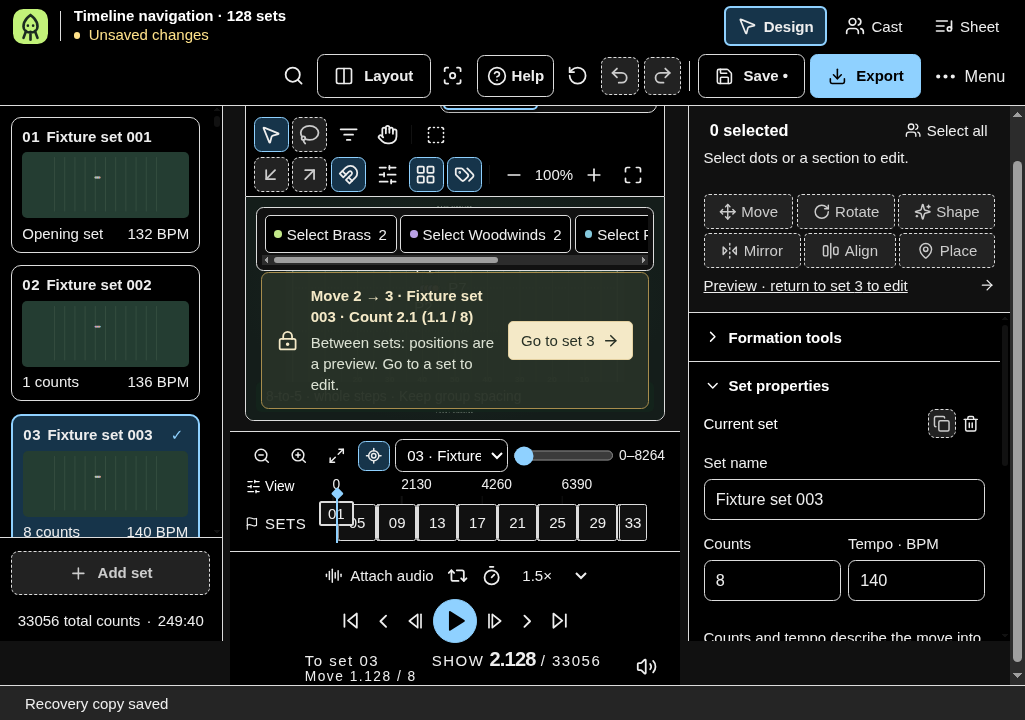
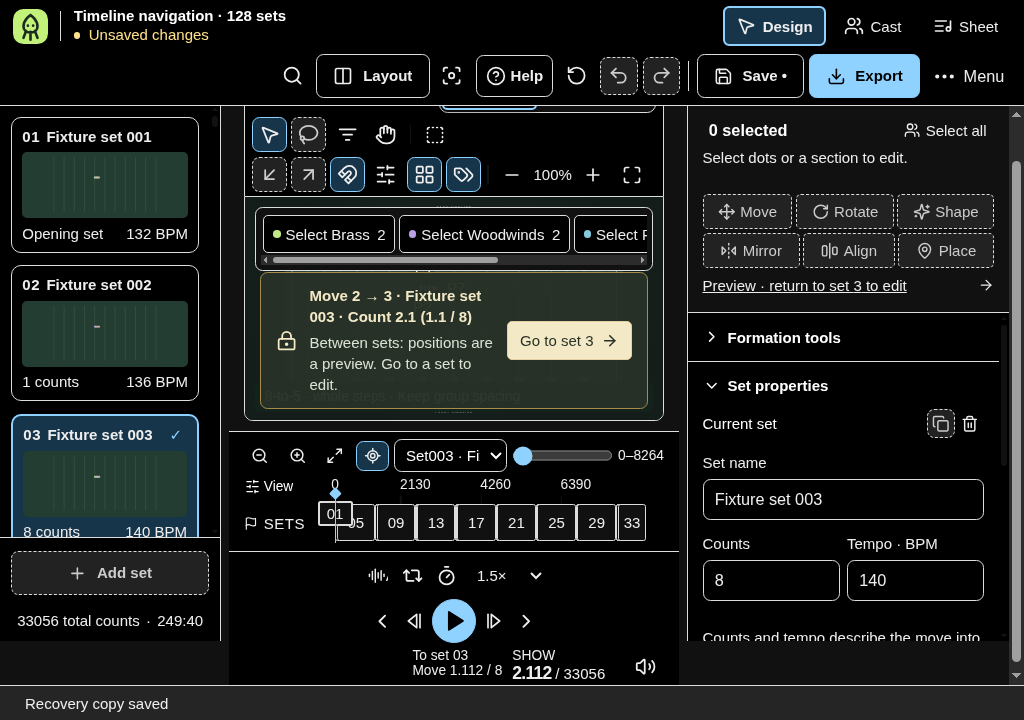
Preserve field height and stabilize native timeline checks

diff --git a/src/editor/EditorTimeline.tsx b/src/editor/EditorTimeline.tsx
@@ -16,7 +16,7 @@ export function EditorTimeline({ controller }: { controller: EditorController })
   const count = useEditorSelector(state => state.playback.count);
   const position = timelineReadout(project, count);
   return (<section className="timeline" aria-label="Show timeline"><TimelineTracks controller={controller} />
-            <div className="transport"><div className="transport-options"><HelpButton title={audioName ? 'Replace audio' : 'Attach audio'} description="Choose a local audio file to accompany rehearsal playback." disabledReason="Wait for the audio file to finish loading." className={`audio-attach ${audioName ? 'attached' : ''}`} onClick={() => audioInput.current?.click()} disabled={audioLoading}>{audioLoading ? <LoaderCircle size={14} className="spin" /> : <AudioLines size={14} />}{audioName || 'Attach audio'}{audioName && <span>Replace</span>}</HelpButton><Button title="Loop show" description="Restart from the opening set when playback reaches the end." active={loop} onClick={() => setLoop(!loop)}><Repeat2 size={17} /></Button><Button title="Metronome" description="Play a click on each count during rehearsal." active={metronome} onClick={() => setMetronome(!metronome)}><Timer size={17} /></Button><Tooltip name="Playback speed" description="Change rehearsal speed without changing the written move tempos." state={`${speed}×`}><select aria-label="Playback speed" value={speed} onChange={e => setSpeed(Number(e.target.value))}><option value="0.5">0.5×</option><option value="0.75">0.75×</option><option value="1">1× speed</option><option value="1.25">1.25×</option><option value="1.5">1.5×</option></select></Tooltip></div><div className="play-controls"><Button command="set.select" showShortcut={false} title="First set" description="Stop playback and return to the opening set." onClick={() => selectSet(0)}><SkipBack size={17} /></Button><Button command="set.select" shortcutVariant={0} title="Previous set" disabled={index === 0} disabledReason="This is already the first set." onClick={() => selectSet(index - 1)}><ChevronLeft size={18} /></Button><Button command="playback.count-previous" title="Previous count" disabled={count <= 0} disabledReason="The opening set is count zero." onClick={() => controller.dispatch('playback.count-previous')}><StepBack size={16} /></Button><HelpButton command="playback.toggle" title={playing ? 'Pause playback' : 'Play show'} state={playing ? 'Playing' : 'Paused'} disabled={!duration} disabledReason="Add a second set with move counts to rehearse a transition." className="play-button" aria-label={playing ? 'Pause playback' : 'Play show'} onClick={togglePlay}>{playing ? <Pause size={19} fill="currentColor" /> : <Play size={19} fill="currentColor" />}</HelpButton><Button command="playback.count-next" title="Next count" disabled={count >= duration} disabledReason="This is the final show count." onClick={() => controller.dispatch('playback.count-next')}><StepForward size={16} /></Button><Button command="set.select" shortcutVariant={1} title="Next set" disabled={index === project.sets.length - 1} disabledReason="This is already the last set." onClick={() => selectSet(index + 1)}><ChevronRight size={18} /></Button><Button command="set.select" showShortcut={false} title="Last set" description="Stop playback and arrive at the final set." onClick={() => selectSet(project.sets.length - 1)}><SkipForward size={17} /></Button></div><div className="count-display"><span className="move-count" title={position.name}>{position.opening ? 'Opening · 01' : `${position.arrived ? 'At' : 'To'} set ${String(position.setIndex + 1).padStart(2, '0')}`}<small>{position.opening ? 'Count 0' : `Move ${fmt(position.localCount)} / ${position.counts}`}</small></span><span className="show-count"><small>SHOW</small><strong>{fmt(count)}</strong><small>/ {duration}</small></span><Button title={muted ? 'Unmute audio' : 'Mute audio'} description="Mute or restore the attached rehearsal audio; metronome clicks are separate." state={muted ? 'Muted' : 'Audible'} active={muted} onClick={() => setMuted(!muted)}><>{muted ? <VolumeX size={17} /> : <Volume2 size={17} />}</></Button></div></div>
+            <div className="transport"><div className="transport-options"><HelpButton title={audioName ? 'Replace audio' : 'Attach audio'} description="Choose a local audio file to accompany rehearsal playback." disabledReason="Wait for the audio file to finish loading." className={`audio-attach ${audioName ? 'attached' : ''}`} onClick={() => audioInput.current?.click()} disabled={audioLoading}>{audioLoading ? <LoaderCircle size={14} className="spin" /> : <AudioLines size={14} />}<span className="audio-file-label">{audioName || 'Attach audio'}</span>{audioName && <span>Replace</span>}</HelpButton><Button title="Loop show" description="Restart from the opening set when playback reaches the end." active={loop} onClick={() => setLoop(!loop)}><Repeat2 size={17} /></Button><Button title="Metronome" description="Play a click on each count during rehearsal." active={metronome} onClick={() => setMetronome(!metronome)}><Timer size={17} /></Button><Tooltip name="Playback speed" description="Change rehearsal speed without changing the written move tempos." state={`${speed}×`}><select aria-label="Playback speed" value={speed} onChange={e => setSpeed(Number(e.target.value))}><option value="0.5">0.5×</option><option value="0.75">0.75×</option><option value="1">1× speed</option><option value="1.25">1.25×</option><option value="1.5">1.5×</option></select></Tooltip></div><div className="play-controls"><Button command="set.select" showShortcut={false} title="First set" className="timeline-edge-set" description="Stop playback and return to the opening set." onClick={() => selectSet(0)}><SkipBack size={17} /></Button><Button command="set.select" shortcutVariant={0} title="Previous set" disabled={index === 0} disabledReason="This is already the first set." onClick={() => selectSet(index - 1)}><ChevronLeft size={18} /></Button><Button command="playback.count-previous" title="Previous count" disabled={count <= 0} disabledReason="The opening set is count zero." onClick={() => controller.dispatch('playback.count-previous')}><StepBack size={16} /></Button><HelpButton command="playback.toggle" title={playing ? 'Pause playback' : 'Play show'} state={playing ? 'Playing' : 'Paused'} disabled={!duration} disabledReason="Add a second set with move counts to rehearse a transition." className="play-button" aria-label={playing ? 'Pause playback' : 'Play show'} onClick={togglePlay}>{playing ? <Pause size={19} fill="currentColor" /> : <Play size={19} fill="currentColor" />}</HelpButton><Button command="playback.count-next" title="Next count" disabled={count >= duration} disabledReason="This is the final show count." onClick={() => controller.dispatch('playback.count-next')}><StepForward size={16} /></Button><Button command="set.select" shortcutVariant={1} title="Next set" disabled={index === project.sets.length - 1} disabledReason="This is already the last set." onClick={() => selectSet(index + 1)}><ChevronRight size={18} /></Button><Button command="set.select" showShortcut={false} title="Last set" className="timeline-edge-set" description="Stop playback and arrive at the final set." onClick={() => selectSet(project.sets.length - 1)}><SkipForward size={17} /></Button></div><div className="count-display"><span className="move-count" title={position.name}>{position.opening ? 'Opening · 01' : `${position.arrived ? 'At' : 'To'} set ${String(position.setIndex + 1).padStart(2, '0')}`}<small>{position.opening ? 'Count 0' : `Move ${fmt(position.localCount)} / ${position.counts}`}</small></span><span className="show-count"><small>SHOW</small><strong>{fmt(count)}</strong><small>/ {duration}</small></span><Button title={muted ? 'Unmute audio' : 'Mute audio'} description="Mute or restore the attached rehearsal audio; metronome clicks are separate." state={muted ? 'Muted' : 'Audible'} active={muted} onClick={() => setMuted(!muted)}><>{muted ? <VolumeX size={17} /> : <Volume2 size={17} />}</></Button></div></div>
           </section>);
 }
 

diff --git a/src/editor/TimelineTracks.tsx b/src/editor/TimelineTracks.tsx
@@ -46,7 +46,7 @@ export function TimelineTracks({ controller }: { controller: EditorController })
       <Button title="Fit show timeline" description="Show the opening set and every arrival." onClick={() => { setZoom(1); setStart(0); }}><Maximize2 size={14} /></Button>
       <Button title="Follow playhead" description="Keep the playhead visible during playback, stepping and set navigation. Panning turns follow off." active={follow} onClick={() => setFollow(!follow)}><LocateFixed size={14} /></Button>
       <Tooltip name="Go to timeline set" description="Choose any set by number, name and show arrival count. Stop playback and bring its arrival into view."><select aria-label="Go to timeline set" value={index} onChange={e => { const i = Number(e.target.value); selectSet(i); setStart(timelineWindow(duration, width, view.zoom, arrivals[i].count - span * .15).start); }}>
-        {arrivals.map(a => <option key={a.set.id} value={a.index}>{String(a.index + 1).padStart(2, '0')} · {a.set.name} · {fmt(a.count)}</option>)}
+        {arrivals.map(a => <option key={a.set.id} value={a.index}>Set{String(a.index + 1).padStart(3, '0')} · {a.set.name} · {fmt(a.count)}</option>)}
       </select></Tooltip>
       <Tooltip name="Pan timeline" description="Move the visible count window without moving the playhead. Use arrow keys while focused. Panning turns follow off." disabledReason="Zoom in to pan the timeline."><input aria-label="Pan timeline" type="range" min={0} max={Math.max(0, duration - span)} step="any" value={view.start} disabled={view.zoom <= 1} onChange={e => { setFollow(false); setStart(Number(e.target.value)); }} /></Tooltip>
       <span className="timeline-window">{fmt(view.start)}–{fmt(Math.min(duration, view.start + span))}</span>

diff --git a/src/editor/timeline.css b/src/editor/timeline.css
@@ -24,3 +24,15 @@
 .timeline .count-display .move-count small { font-size: 11px; }
 .timeline .count-display .show-count { display: flex; align-items: baseline; gap: 4px; font-variant-numeric: tabular-nums; }
 .timeline .count-display .show-count strong { font-size: 16px; }
+@container (max-width: 650px) {
+  .timeline .audio-attach .audio-file-label { display: none; }
+  .timeline .audio-attach { width: 26px; max-width: 26px; justify-content: center; gap: 0; }
+  .timeline .play-controls .timeline-edge-set { display: none; }
+  .timeline .count-display { gap: 4px; }
+  .timeline .count-display .move-count { letter-spacing: 0; font-size: 11px; }
+  .timeline .count-display .show-count { display: grid; grid-template-columns: auto auto; gap: 0 3px; letter-spacing: 0; }
+  .timeline .count-display .show-count > small:first-child { grid-column: 1 / -1; font-size: 11px; }
+  .timeline .count-display .show-count strong { font-size: 14px; }
+}
+.timeline { container-type: inline-size; }
+.timeline .audio-attach .audio-file-label { display: inline; margin-left: 0; overflow: hidden; text-overflow: ellipsis; }

diff --git a/docs/timeline-navigation.md b/docs/timeline-navigation.md
@@ -2,7 +2,7 @@
 
 Issue: [#31](https://github.com/IanSzymanski/squidware/issues/31).
 
-Use **View** at the left of the count ruler to open timeline controls. Zoom in/out keeps the visible playhead anchored; **Fit show timeline** restores the full count axis. At maximum zoom a count occupies 24 CSS pixels. The pan slider changes only the visible window; its arrow keys provide a keyboard alternative. Panning switches **Follow playhead** off, and enabling follow brings the current count back into view. Follow also handles stepping, playback and loop rewinds. The all-set picker lists each set's number, name and absolute arrival count, including all 128 sets in a maximum-length roster of sets. Choosing a set pauses playback and brings its arrival into view.
+Use **View** at the left of the count ruler to open timeline controls. Zoom in/out keeps the visible playhead anchored; **Fit show timeline** restores the full count axis. At maximum zoom a count occupies 24 CSS pixels. The pan slider changes only the visible window; its arrow keys provide a keyboard alternative. Panning switches **Follow playhead** off, and enabling follow brings the current count back into view. Follow also handles stepping, playback and loop rewinds. The all-set picker lists each set's number, name and absolute arrival count, including all 128 sets in a production. Choosing a set pauses playback and brings its arrival into view.
 
 The opening picture is set 01 at show count zero. Subsequent timeline blocks describe incoming moves and select their destination sets. The ruler prefers real arrival counts, adds whole-count subdivisions when space allows, and omits labels that would collide. Short moves remain proportionally narrow at Fit; zoom or the all-set picker makes their arrivals intentional targets. Set names truncate within their blocks; hover/focus help retains the complete name and arrival.
 
@@ -14,10 +14,12 @@ Zoom, pan, follow and control expansion are session view state. They do not ente
 
 ## Review evidence
 
-Design guidance sections 1–5 apply. This uses existing neutral theme tokens, Lucide icons, `HelpButton`/`Tooltip`, native range/select controls and the shared set/seek/count commands. Controls collapse by default to preserve field space. Expanded controls temporarily use an additional row; enlarged narrow windows use the existing scrollable workspace, and focusing controls scrolls them into view.
+Design guidance sections 1–5 apply. This uses existing neutral theme tokens, Lucide icons, `HelpButton`/`Tooltip`, native range/select controls and the shared set/seek/count commands. Controls collapse by default to preserve field space. Expanded controls temporarily use an additional row; enlarged narrow windows use the existing scrollable workspace, and focusing controls scrolls them into view. Narrow field columns use a compact transport with an audio icon and omit First/Last set buttons; the all-set picker and previous/next set commands retain those navigation paths.
 
 Before/after captures are in [evidence/timeline](evidence/timeline). The baseline is main `7b055bb`; after captures use the same deterministic 128-set production with alternating 1-, 8-, 32- and 1,024-count moves. Dark, light, high-contrast and 1024×720 at 125% are inspected. Measurements and interaction results are recorded in `review.json`. Default 1366×768 layout retains the approximately 120 px transport/timeline and 470 px field targets; the expanded view is temporary and trades field height for navigation controls.
 
-`pnpm test:timeline` (also in the default desktop certification matrix) exercises every set with native select arrow keys, pointer ruler scrubbing, zoom, keyboard pan/follow, comma/period and transport steps, fractional/boundary readouts, text-input exclusion, playback and enlarged-theme access. Source tests cover engine boundary agreement, exact fractional steps, 128-set short/long moves and nonoverlapping labels. Navigation leaves the serialized production unchanged, so save/reopen and undo data formats are unchanged.
+`pnpm test:timeline` (also in the default desktop certification matrix) exercises every set with native select typeahead, pointer ruler scrubbing, zoom, keyboard pan/follow, comma/period and transport steps, fractional/boundary readouts, text-input exclusion, playback and enlarged-theme access. Source tests cover engine boundary agreement, exact fractional steps, 128-set short/long moves and nonoverlapping labels. Navigation leaves the serialized production unchanged, so save/reopen and undo data formats are unchanged.
 
 Local visual interaction evidence uses production Electron under Xvfb with `--no-sandbox`, because this cloud host has neither a configured setuid helper nor usable unprivileged namespaces. This is targeted UI evidence, not sandbox/platform certification. Source/native/contract checks run separately. Hosted CI must run the normal sandboxed desktop suite on Windows, macOS and Linux. The pre-existing macOS audio screenshot restoration failure recorded in [RELEASES.md](RELEASES.md) remains an explicit publication gate until exact-source certification passes. No human writer or school-hardware qualification is claimed.
+
+CI follow-up: the narrow transport uses its own container width, keeping field space when Cast or enlarged panels narrow the center column. The shared screenshot helper nudges/restores native client dimensions rather than outer frame bounds, with a regression simulating changing native frame insets. This addresses the earlier macOS two-pixel restoration drift without relaxing viewport assertions.
